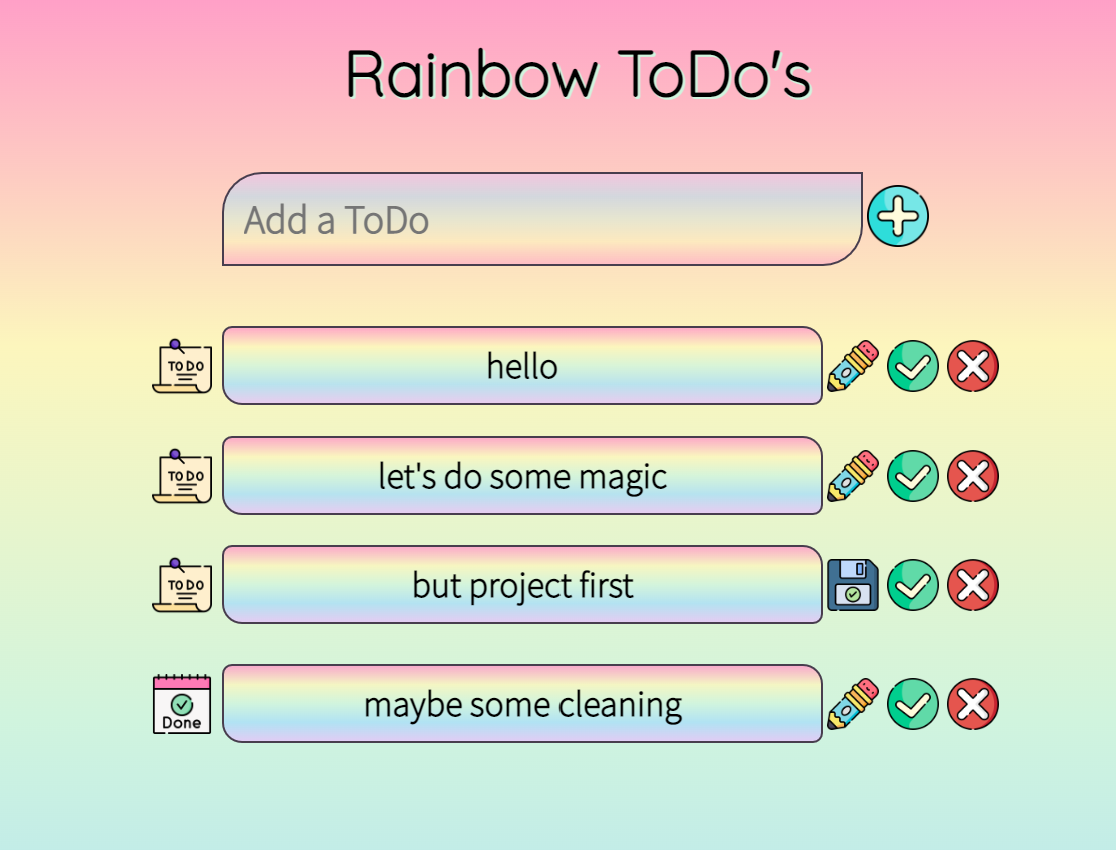
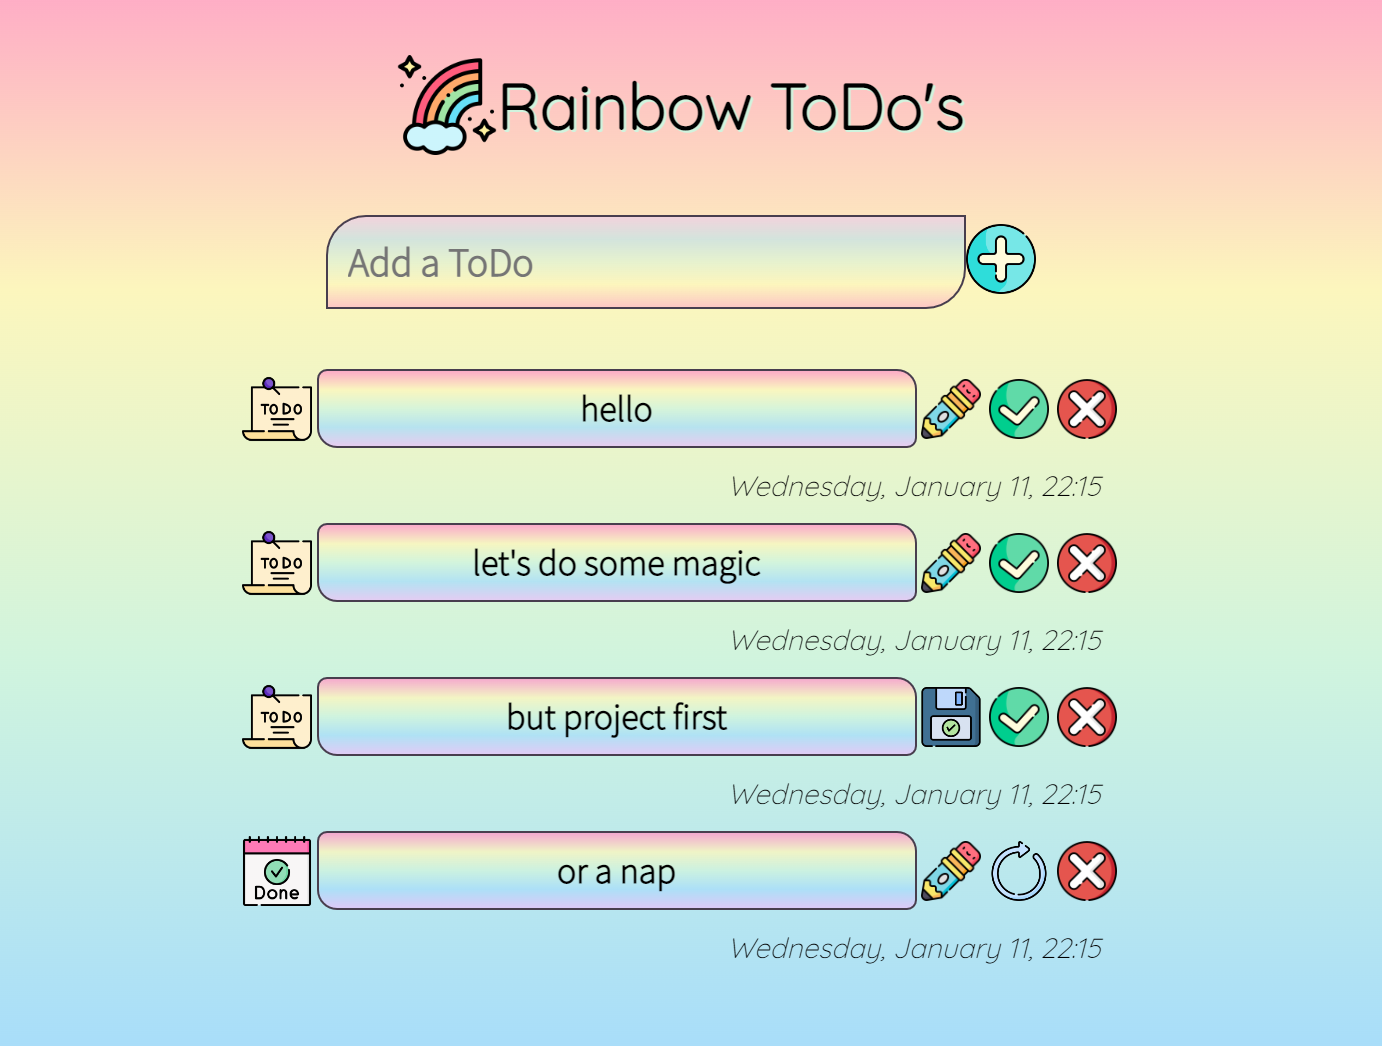
update README.md - add features and testing

diff --git a/README.md b/README.md
@@ -1,5 +1,7 @@
 # Rainbow ToDo's
 
+![Front page on different screens](assets/readme/amiresponsive-white.png)
+
 #### [**Live Website**](https://noemichis.github.io/rainbow-todos/)
 
 A simple and colorful ToDo List project to organize daily tasks. It is created to be responsive on all screen sizes so users can easily access it from anywhere and offers control buttons for easy and intuitive interaction. 
@@ -12,6 +14,7 @@ A simple and colorful ToDo List project to organize daily tasks. It is created t
     - update tasks.
     - mark tasks complete.
     - delete tasks when no longer applicable.
+- Keep track of time.
 - Enjoy the design and colors to boost the day.
 
 ## Design
@@ -22,13 +25,52 @@ The colors were chosen with the color pallette generator [Coolors](https://coolo
 
 ![Five color collage](assets/readme/color-pallette.png)
 
-Fonts used in the project were `Quicksand` for the main heading and `Source Sans Pro` for the body of the page, both having a sans-serif font as backup. They were imported from [Google Fonts](http://fonts.google.com).
+Fonts used in the project were `Quicksand` for the heading and time objects, `Source Sans Pro` for the body of the page, both having a sans-serif font as backup. They were imported from [Google Fonts](http://fonts.google.com).
 
 The icons are sourced from [Flaticon](https://www.flaticon.com/) and were made by [Freepik](https://www.freepik.com/) in a lineal color style, which gives them a playful appearance. 
 
 ![Colors, fonts and icons](assets/readme//colors-font-icons.png)
 
 ## Features
+
+All features of the page are fully responsive and adjust well for all screen sizes, from extra small mobiles to large monitors and their functionality has been tested.
+
+### Landing page
+- Add an input task, where the submit button calls the function and creates the tasks. 
+- An empty state message, which indicates that no ToDo's have been added yet. This element is hidden when a task is added, then called back when all tasks have been closed. 
+![Input field with welcome message](assets/readme/empty-state.png)
+- The input element has validation alert and will prevent the user from submitting empty fields or input that only contains blank spaces. To make this alert prettier, [SweetAlert](https://sweetalert.js.org/guides/) was used.
+![SweetAlert enter task alert](assets/readme/validation.png)
+- For better user experience the input field changes on hover and when active.
+![Input field on hover effect](assets/readme/hover.png)
+- The submit button has a bounce on hover effect attributed, same as all the other button elements on the page. 
+
+### ToDo list items
+- Adding multiple elements with initial state and timestamp
+![Two ToDo inputs](assets/readme/time-feature.png)
+- **ToDo** and **Done** icons in front of the input visually indicate if a task is complete or not.
+![Todo and Done icons](assets/readme/todo-done.png)
+
+
+
+### Buttons
+- *Edit* and *Save* buttons
+    - On click calls an event to modify the input and changes the class so it serves the save button. For more visual representation the pencil is switched to a save icon.
+![Edit buton in action](assets/readme/edit.png) 
+    - Once the editing is complete, clicking on the save icon will call the edit button back and switch the icons as well.
+
+- *Check* and  *Reopen* buttons
+    - The check button marks the task complete by moving it to the end of the list and replacing it's class, along with the representative icon. 
+    - This step can also be reverted by clicking on the reopen icon, which will re-append the task to the tasks that aren't yet completed.
+
+- *Delete button*
+    - As mistakes happen, this button is also needed and will remove the task from the list. If there are no more tasks the empty state message will pop back up on the screen. 
+
+
+
+
+
+
 
 ## Features to add 
 
